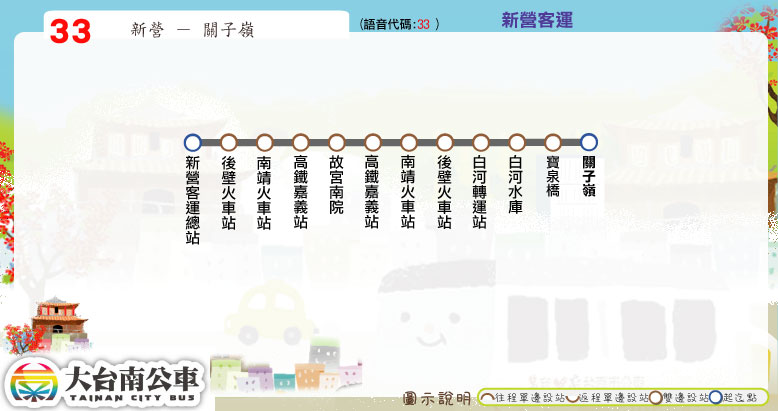
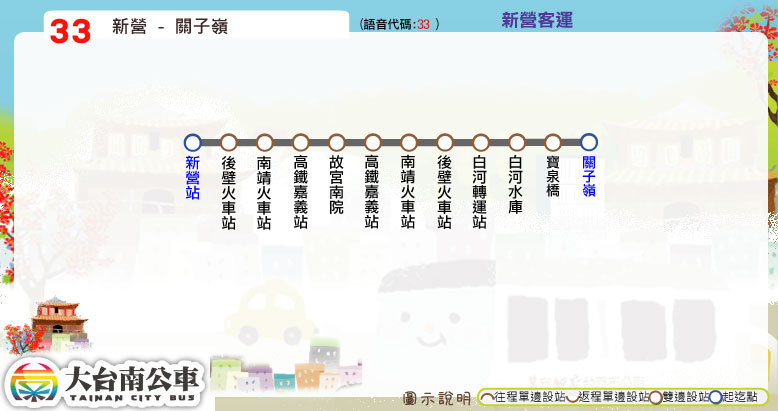
新增站位：3路(增「臺南護校」)；更新路線圖：33、77-1

diff --git a/urban/3.html b/urban/3.html
@@ -20,7 +20,7 @@
 	block_route_map(null);
 	block_route_info(route_interval,'府城客運','尖15離30','一段票','http://www.2384.com.tw/ebus/jsp/ajaxBus.jsp?pathId=10163&locale=zh_TW');
 	block_fare(1, null);
-	block_time_schedule_diffreturn('海東國小-&gt;竹篙厝/全福新城','竹篙厝/全福新城-&gt;海東國小',W_message+'；'+L_message+'<br /><span style="font-size:18px">「*」表示每週一延駛復興國中班次不停靠「崇善十二街口」至「竹篙厝北」沿途各站</span>');
+	block_time_schedule_diffreturn('海東國小 → 竹篙厝/全福新城/復興國中','竹篙厝/全福新城/復興國中 → 海東國小',W_message+'；'+L_message+'<br /><span style="font-size:18px">「*」表示每週一延駛復興國中班次不停靠「崇善十二街口」至「竹篙厝北」沿途各站</span>');
 	block_transfer(transfer_haidong_elementary_school + transfer_tainan_railway_station + transfer_culture_center);
 	block_copyright();
 </script>
